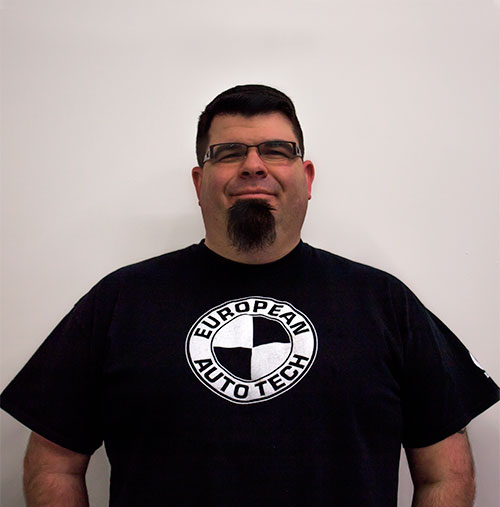
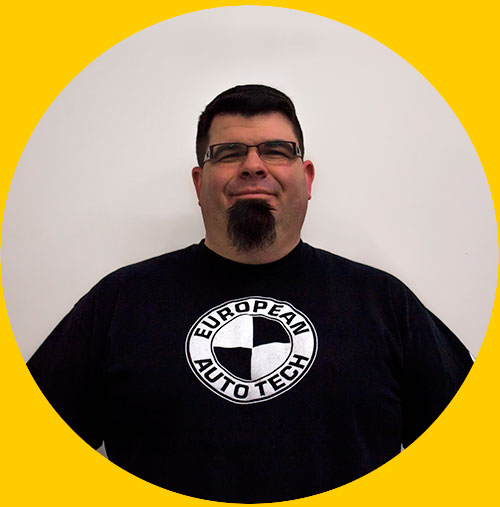
everything done except gallery fix
fixed images, designed php pages

Changed region(s): [[0.0, 0.0, 1.0, 1.0]]

diff --git a/styles/style-php.css b/styles/style-php.css
@@ -1,0 +1,22 @@
+@charset "UTF-8";
+/* CSS Document */
+
+body{
+background-color:#ff0000;	
+}
+
+p{
+font-family: 'Oswald', sans-serif;
+font-weight:300;
+font-size:74px;
+color:white;
+text-align:center;
+margin-top:203px;	
+}
+
+img{
+width:300px;
+display: block;
+margin-left: auto;
+margin-right: auto;
+}

diff --git a/styles/custom.css b/styles/custom.css
@@ -214,11 +214,13 @@ font-family: 'Oswald', sans-serif;
 font-weight:bold;	
 font-size:24px;
 margin-bottom:0;
+text-align:center;
 }
 
 .employee-title{
 font-family: 'Oswald', sans-serif;
 font-weight:300;	
+text-align:center;
 }
 
 .most-important-small-text{

diff --git a/php/contact-form.php b/php/contact-form.php
@@ -3,13 +3,12 @@
 <head>
 <meta charset="UTF-8">
 <title>Contact form</title>
+<link rel="stylesheet" href="../styles/style-php.css"/>
 </head>
 
 <body>
 
 <?php
-	
-	echo "asdf"
 	
     $name = $_POST['name'];
     $email = $_POST['email'];
@@ -19,17 +18,21 @@
     $subject = 'Website Contact Form';
     $human = $_POST['human'];
 			
-    $body = "From: $name\n E-Mail: $email\n Message:\n $message";
+    $body = "From: $name\n E-Mail: $email\n Message: $message\n";
+	
+	echo "asdf";
 				
-    if ($_POST['contact-submit'] && $human == '4') {				 
+    if ($_SERVER['REQUEST_METHOD'] == 'POST' && $human == '4') {				 
         if (mail ($to, $subject, $body, $from)) { 
 	    echo '<p>Your message has been sent!</p>';
-	} else { 
+	} 
+	else { 
 	    echo '<p>Something went wrong, go back and try again!</p>'; 
 	} 
-    } else if ($_POST['contact-submit'] && $human != '4') {
+    } else if ($_SERVER['REQUEST_METHOD'] == 'POST' && $human != '4') {
 	echo '<p>You answered the anti-spam question incorrectly!</p>';
     }
 ?>
+	<a href="../index.html"> <img src="../images/button-php-back-yellow.svg"/> </a>
 </body>
 </html>

diff --git a/php/order-form.php b/php/order-form.php
@@ -3,6 +3,7 @@
 <head>
 <meta charset="UTF-8">
 <title>Order parts form</title>
+<link rel="stylesheet" href="../styles/style-php.css"/>
 </head>
 
 <body>
@@ -20,15 +21,16 @@
 			
     $body = "From: $name\n Phone: $phone\n Vin: $vin\n E-Mail: $email\n Vehicle: $vehicle\n Message:\n $message";
 				
-    if ($_POST['order-submit'] && $human == '4') {				 
+    if ($_SERVER['REQUEST_METHOD'] == 'POST' && $human == '4') {				 
         if (mail ($to, $subject, $body, $from)) { 
 	    echo '<p>Your message has been sent!</p>';
 	} else { 
 	    echo '<p>Something went wrong, go back and try again!</p>'; 
 	} 
-    } else if ($_POST['order-submit'] && $human != '4') {
+    } else if ($_SERVER['REQUEST_METHOD'] == 'POST' && $human != '4') {
 	echo '<p>You answered the anti-spam question incorrectly!</p>';
     }
 ?>
+	<a href="../index.html"> <img src="../images/button-php-back-yellow.svg"/> </a>
 </body>
 </html>

diff --git a/php/appointment-form.php b/php/appointment-form.php
@@ -3,6 +3,7 @@
 <head>
 <meta charset="UTF-8">
 <title>Appointment Form</title>
+<link rel="stylesheet" href="../styles/style-php.css"/>
 </head>
 
 <body>
@@ -17,15 +18,16 @@
 			
     $body = "From: $name\n E-Mail: $email\n Message:\n $message";
 				
-    if ($_POST['appointment-submit'] && $human == '4') {				 
+    if ($_SERVER['REQUEST_METHOD'] == 'POST' && $human == '4') {				 
         if (mail ($to, $subject, $body, $from)) { 
 	    echo '<p>Your message has been sent!</p>';
 	} else { 
 	    echo '<p>Something went wrong, go back and try again!</p>'; 
 	} 
-    } else if ($_POST['appointment-submit'] && $human != '4') {
+    } else if ($_SERVER['REQUEST_METHOD'] == 'POST' && $human != '4') {
 	echo '<p>You answered the anti-spam question incorrectly!</p>';
     }
 ?>
+	<a href="../index.html"> <img src="../images/button-php-back-yellow.svg"/> </a>
 </body>
 </html>
